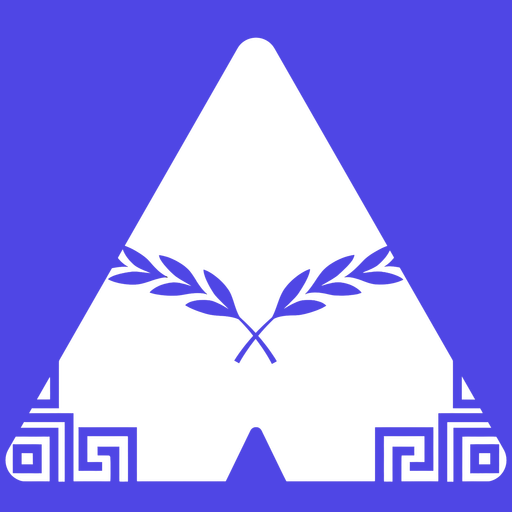
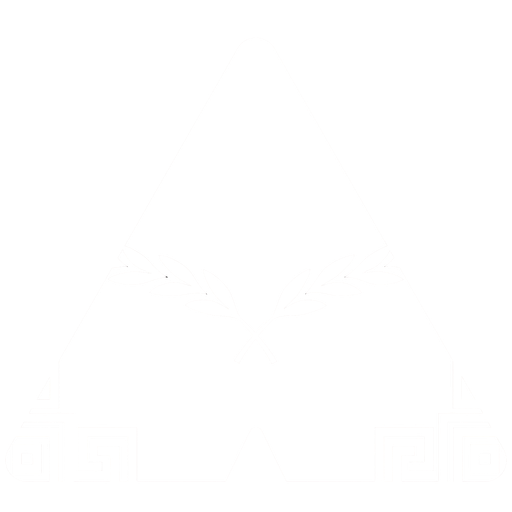
Íconos sin recortar ni fondo agregado, tal cual los archivos originales
Ajuste sobre el rebranding anterior, a pedido explícito: no quería que
se le agregara ni se le recortara nada a sus archivos.

- Favicon (src/app/icon.png): ahora es "Aretia Icon.png" tal cual —
  blanco, sin fondo agregado (antes le había puesto un fondo azul sólido
  para que no quedara invisible en la pestaña; se quita esa decisión,
  el archivo va como es).
- Íconos de la PWA instalable (icon-192, icon-512, icon-maskable-512,
  apple-touch-icon) y public/aretia-logo.png: ahora es "Aretia Logo.png"
  completo, sin recortar el margen ni el texto — solo redimensionado
  (ya es cuadrado 2000x2000, así que el resize no distorsiona nada).

Verificado: solo son binarios regenerados (gen-brand-assets.js), sin
cambios de código — npx tsc --noEmit sigue limpio de antes.

diff --git a/web/scripts/gen-brand-assets.js b/web/scripts/gen-brand-assets.js
@@ -3,59 +3,26 @@ const path = require("path");
 
 const ICON = path.resolve(__dirname, "../../app/assets/logos/Aretia Icon.png");
 const LOGO = path.resolve(__dirname, "../../app/assets/logos/Aretia Logo.png");
-const BRAND_BLUE = "#4F46E5";
-
-// "contain" con fondo transparente evita estirar la marca cuando no es
-// cuadrada.
-const containTransparent = { fit: "contain", background: { r: 0, g: 0, b: 0, alpha: 0 } };
 
 async function main() {
-  // Los íconos (favicon, PWA, maskable, apple-touch) usan
-  // "Aretia Icon.png": ya viene con transparencia real (silueta blanca
-  // exportada con canal alfa de verdad), a diferencia de
-  // "Aretia Logo.png", que trae fondo blanco sólido — intentar
-  // reconstruir el alfa de ese archivo (de-matte) falla porque el
-  // laurel y la greca del diseño también son blancos: no hay forma de
-  // distinguir "blanco de fondo" de "blanco del propio dibujo". Por eso
-  // el ícono va sobre un cuadro sólido del azul de marca, usando el
-  // Icon.png (silueta) como máscara — se ve limpio en cualquier fondo.
-  const iconOnBlue = async (size) => {
-    const mark = await sharp(ICON).resize(size, size, containTransparent).png().toBuffer();
-    return sharp({ create: { width: size, height: size, channels: 4, background: BRAND_BLUE } })
-      .composite([{ input: mark }])
-      .png()
-      .toBuffer();
-  };
+  // Favicon (pestaña del navegador): el ícono blanco tal cual viene,
+  // sin fondo — ya trae transparencia real, solo se redimensiona (ya es
+  // cuadrado, 2000x2000, así que no hace falta recortar ni rellenar).
+  await sharp(ICON).resize(512, 512).png().toFile(path.resolve(__dirname, "../src/app/icon.png"));
+  console.log("icon.png (favicon) saved");
 
-  await sharp(await iconOnBlue(512)).toFile(path.resolve(__dirname, "../src/app/icon.png"));
-  console.log("icon.png saved");
-
-  await sharp(await iconOnBlue(192)).toFile(path.resolve(__dirname, "../public/icons/icon-192.png"));
-  await sharp(await iconOnBlue(512)).toFile(path.resolve(__dirname, "../public/icons/icon-512.png"));
+  // PWA instalable: el logo completo tal cual viene (fondo blanco, con
+  // el texto "Aretia"), sin recortar nada — mismo archivo, solo cambia
+  // de tamaño respetando su proporción (también 2000x2000).
+  await sharp(LOGO).resize(192, 192).png().toFile(path.resolve(__dirname, "../public/icons/icon-192.png"));
+  await sharp(LOGO).resize(512, 512).png().toFile(path.resolve(__dirname, "../public/icons/icon-512.png"));
+  await sharp(LOGO).resize(512, 512).png().toFile(path.resolve(__dirname, "../public/icons/icon-maskable-512.png"));
+  await sharp(LOGO).resize(180, 180).png().toFile(path.resolve(__dirname, "../public/icons/apple-touch-icon.png"));
   console.log("pwa icons saved");
 
-  // Maskable: la marca un poco más chica (70%) para dejar la zona de
-  // seguridad que exige la spec — si no, un launcher circular la recorta.
-  const maskableSize = 512;
-  const markSize = Math.round(maskableSize * 0.7);
-  const maskableMark = await sharp(ICON).resize(markSize, markSize, containTransparent).png().toBuffer();
-  await sharp({ create: { width: maskableSize, height: maskableSize, channels: 4, background: BRAND_BLUE } })
-    .composite([{ input: maskableMark, gravity: "center" }])
-    .png()
-    .toFile(path.resolve(__dirname, "../public/icons/icon-maskable-512.png"));
-  console.log("maskable icon saved");
-
-  await sharp(await iconOnBlue(180)).toFile(path.resolve(__dirname, "../public/icons/apple-touch-icon.png"));
-  console.log("apple touch icon saved");
-
-  // El logo completo (marca + "Aretia") para login/registro/onboarding
-  // se deja tal cual viene, con su fondo blanco — recortado apenas para
-  // quitar el margen sobrante. Va dentro de una tarjeta blanca en la UI
-  // (ver los formularios de auth), así se ve bien tanto en tema claro
-  // como oscuro sin depender de transparencia que este archivo no trae.
-  const logoTrimmed = await sharp(LOGO).png().toBuffer();
-  const trimmedBuf = await sharp(logoTrimmed).trim({ background: "#ffffff" }).png().toBuffer();
-  await sharp(trimmedBuf).toFile(path.resolve(__dirname, "../public/aretia-logo.png"));
+  // Logo completo para las pantallas de login/registro/onboarding —
+  // tal cual, sin recortar.
+  await sharp(LOGO).png().toFile(path.resolve(__dirname, "../public/aretia-logo.png"));
   console.log("full logo saved");
 }
 
